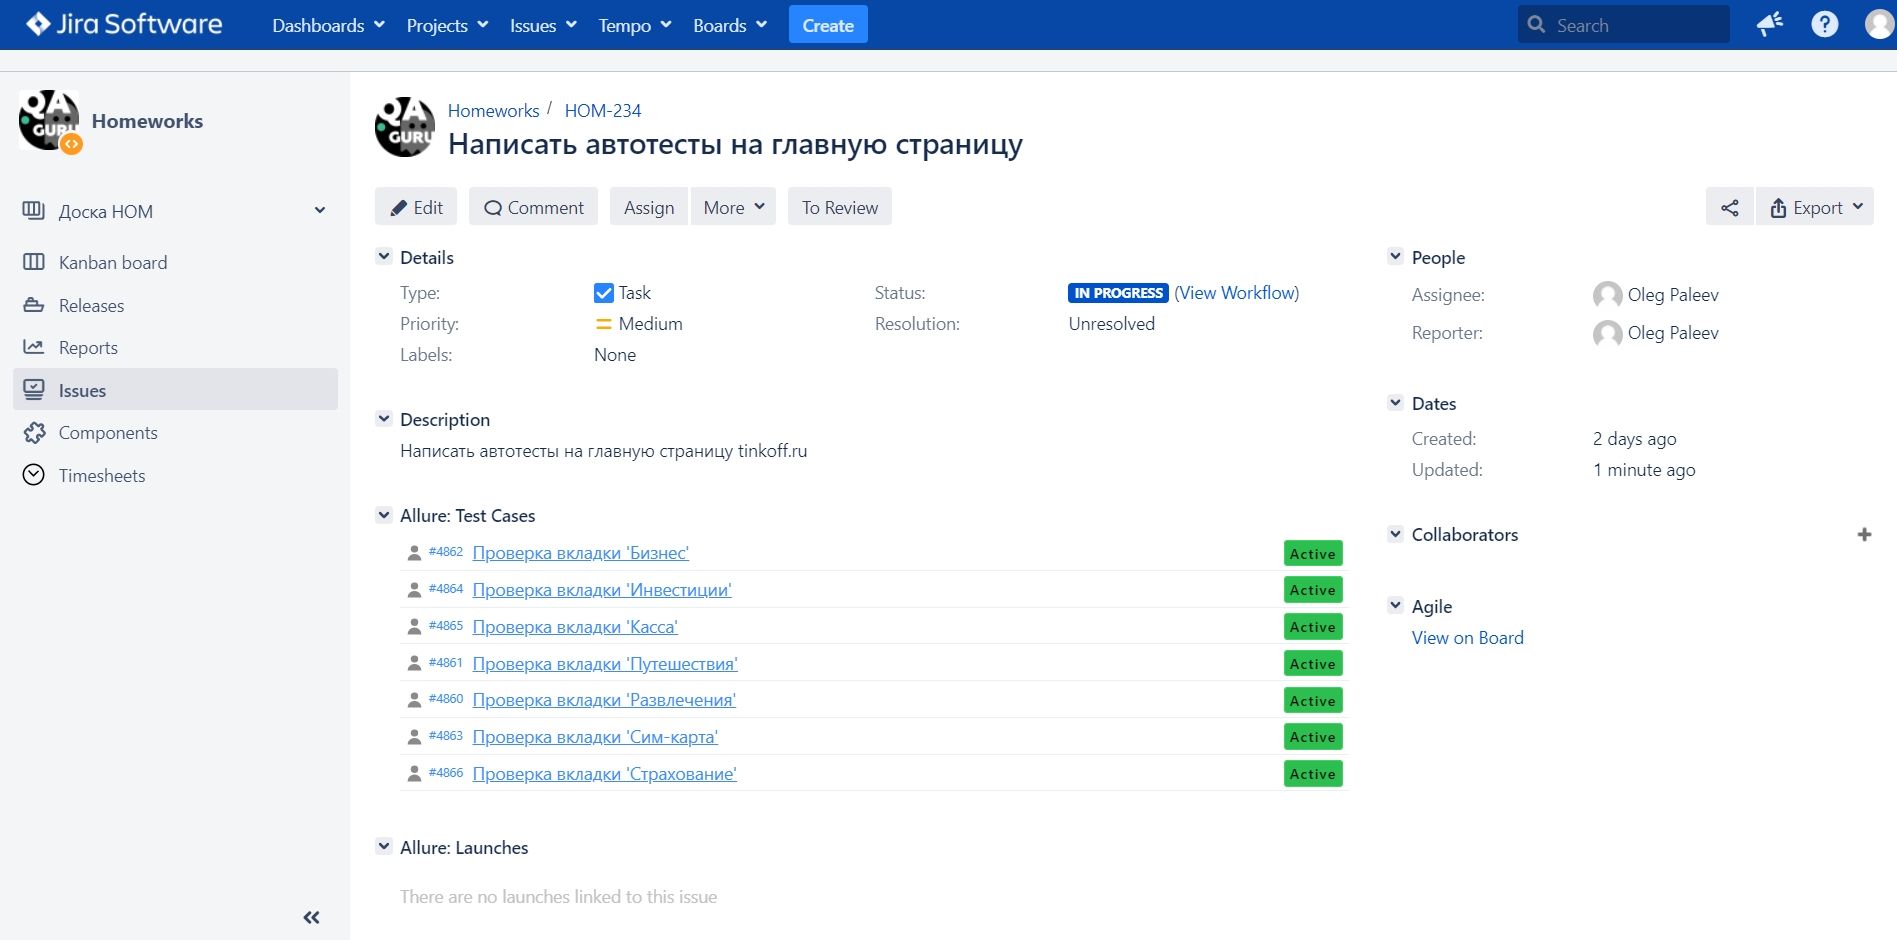
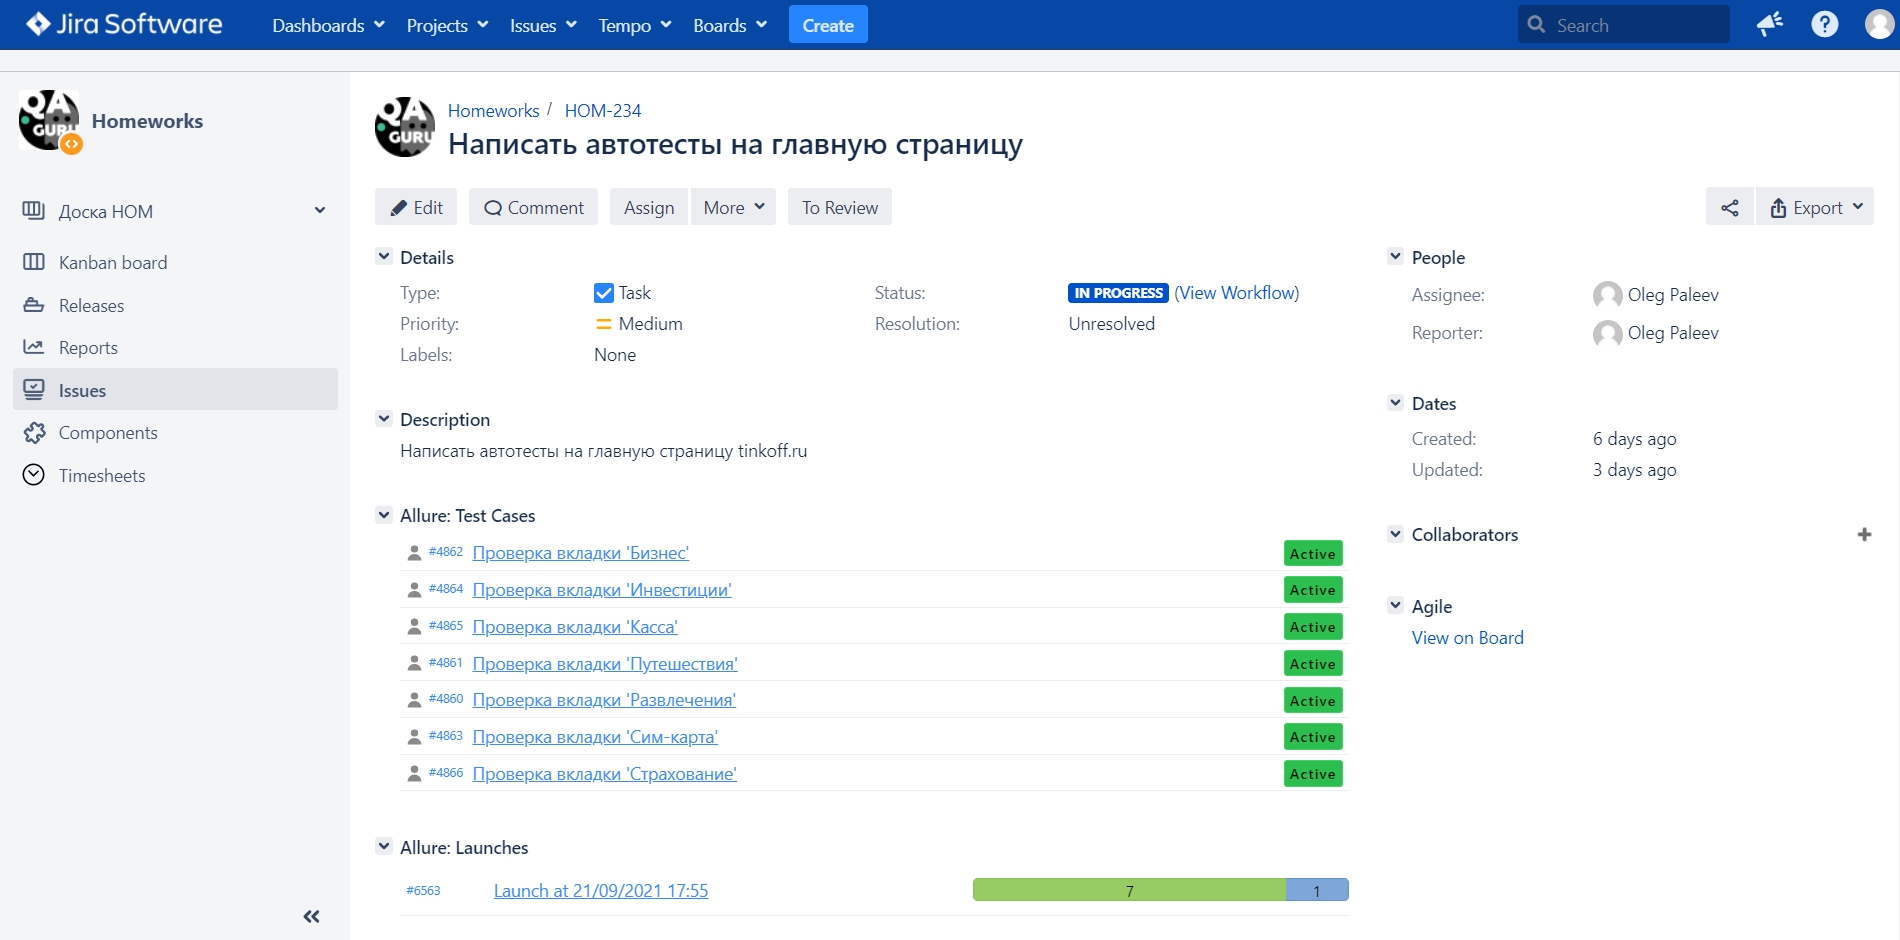
add screenshot of launch in jira

diff --git a/README.md b/README.md
@@ -52,5 +52,5 @@ PASS - пароль от Selenoid/BrowserStack
 ![TestOps2](/images/TestOps2.jpg)  
 ![TestOps](/images/TestOps.jpg) 
    
-### В тасках Jira отображаются привязанные тест-кейсы из Allure TestOps  
+### В тасках Jira отображаются привязанные тест-кейсы и лончи из Allure TestOps  
 ![Jira1](/images/Jira1.jpg) 
